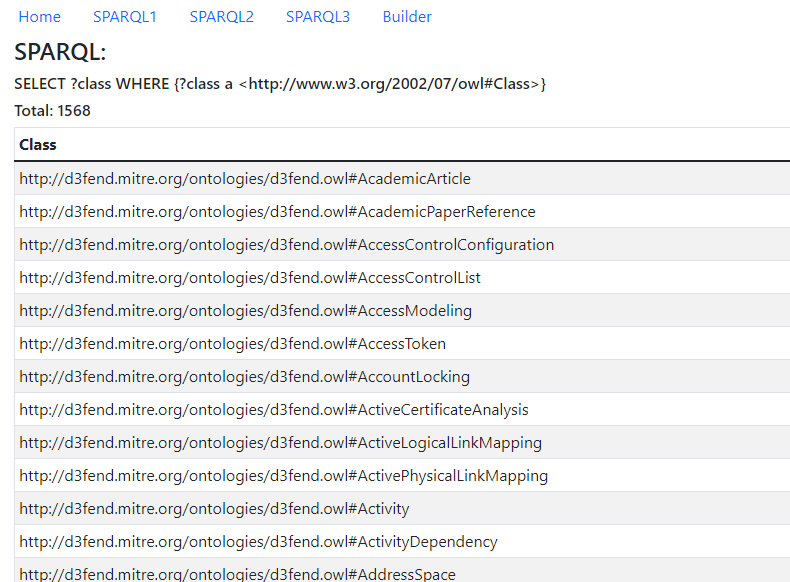
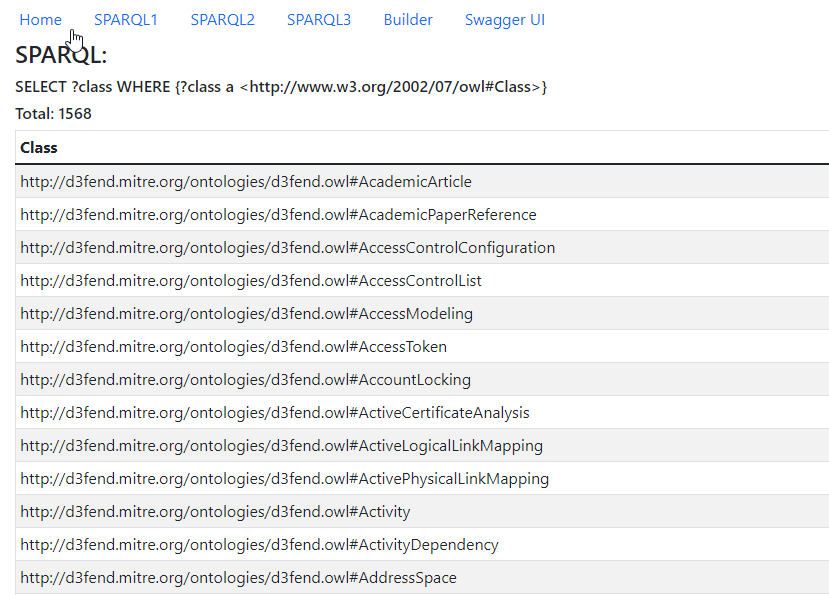
Added Swagger UI and some description.

diff --git a/app/views.py b/app/views.py
@@ -1,13 +1,18 @@
 from flask import render_template, request, abort
+from flask_restx import Resource, Namespace, fields
+from flask_restx._http import HTTPStatus
+
 from pymantic import sparql
-from app import app
+from app import app, api
 from app import configuration
 
 nav = [{'label': 'Home', 'url': '/index'},
        {'label': 'SPARQL1', 'url': '/query/1'},
        {'label': 'SPARQL2', 'url': '/query/2'},
        {'label': 'SPARQL3', 'url': '/query/3'},
-       {'label': 'Builder', 'url': '/querybuilder'}]
+       {'label': 'Builder', 'url': '/querybuilder'},
+       {'label': 'Swagger UI', 'url': '/api/v1'}]
+
 
 @app.route('/')
 @app.route('/index')
@@ -65,32 +70,31 @@ def querybuilder():
     return render_template('querybuilder.html', data=data)
 
 
-@app.post('/rawsparql')
-def raw_sparql():
-    """Query raw SPARQL requests.
-    ---
-    parameters:
-        name: body
-        in: body
-    responses:
-        200:
-            description: Request completed
-            schema:
-                type: array
-                items:
-                    type: string
-        500:
-            description: Request failed
-            schema:
-                type: string
+sparqlNsp = Namespace('api/v1')
+execCommand = sparqlNsp.model('Exec SPARQL query', {'query': fields.String(required=True, description='Raw SPARQL')})
+api.add_namespace(sparqlNsp)
+
+@sparqlNsp.route('/rawsparql')
+class RawRequests(Resource):
     """
-    try:
-        query = request.get_data(as_text=True)
-        server = sparql.SPARQLServer(configuration.dbendpoint)
-        result = server.query(query)
-        return result['results']['bindings']
-    except Exception as err:
-        return abort(500, err)
+    API for execute raw SPARQL queries
+    """
+
+    @sparqlNsp.expect(execCommand)
+    @api.response(HTTPStatus.OK.value, "Request completed")
+    @api.response(HTTPStatus.INTERNAL_SERVER_ERROR.value, "Internal server error")
+    def post(self):
+        """
+        Query raw SPARQL requests.
+        """
+        try:
+            body = request.get_json()
+            rawquery = body['query']
+            server = sparql.SPARQLServer(configuration.dbendpoint)
+            result = server.query(rawquery)
+            return result['results']['bindings']
+        except Exception as err:
+            return abort(500, err)
 
 @app.errorhandler(404)
 def not_found(error: int):

diff --git a/app/__init__.py b/app/__init__.py
@@ -5,7 +5,9 @@ Vitaly Tartynov [https://github.com/VitalyTartynov]
 """
 
 from flask import Flask
+from flask_restx import Api
 
 app = Flask(__name__)
+api = Api(app, title='PT-TestTask', doc='/api/v1')
 
 from app import views

diff --git a/README.md b/README.md
@@ -12,4 +12,5 @@
 ![alt text](images/img2.png)
 
 
-REST API наиболее просто проверить используя VSCode плагин REST Client, два тестовых запроса написаны в файле rawsparql.http
+REST API наиболее просто проверить используя VSCode плагин REST Client, два тестовых запроса написаны в файле rawsparql.http. Также подключен Swagger UI.
+![alt text](images/img3.png)
